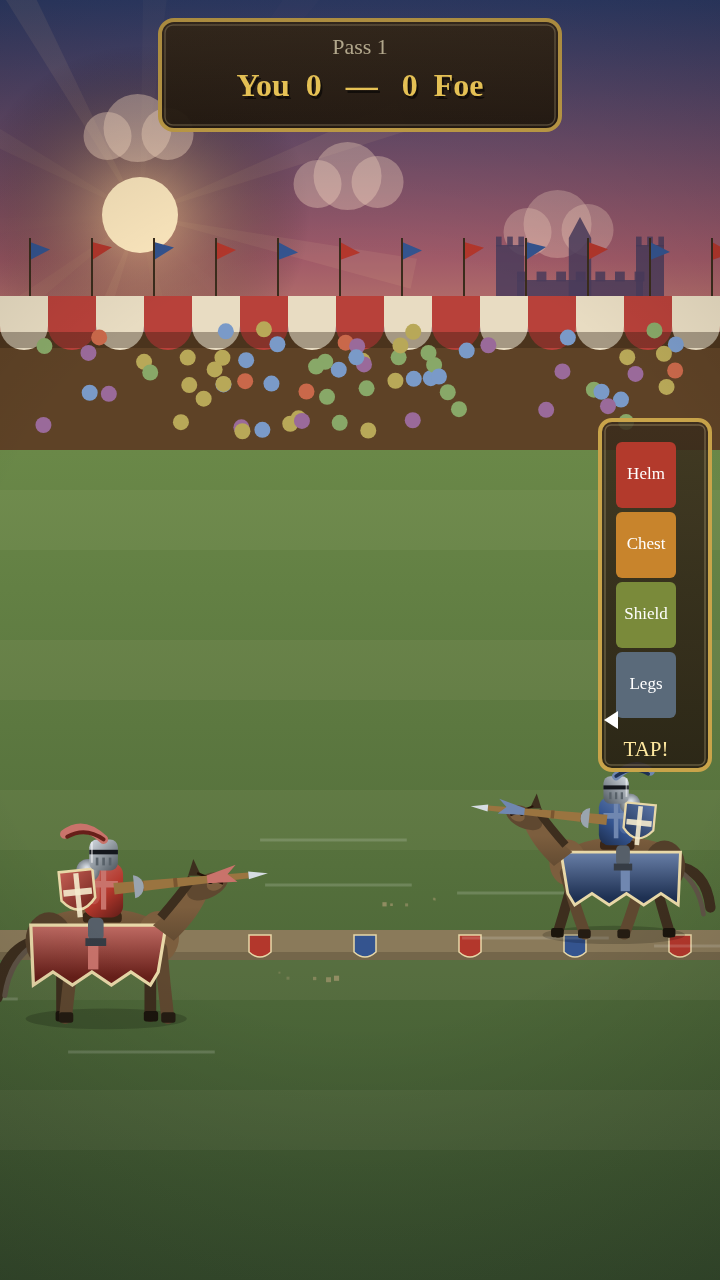
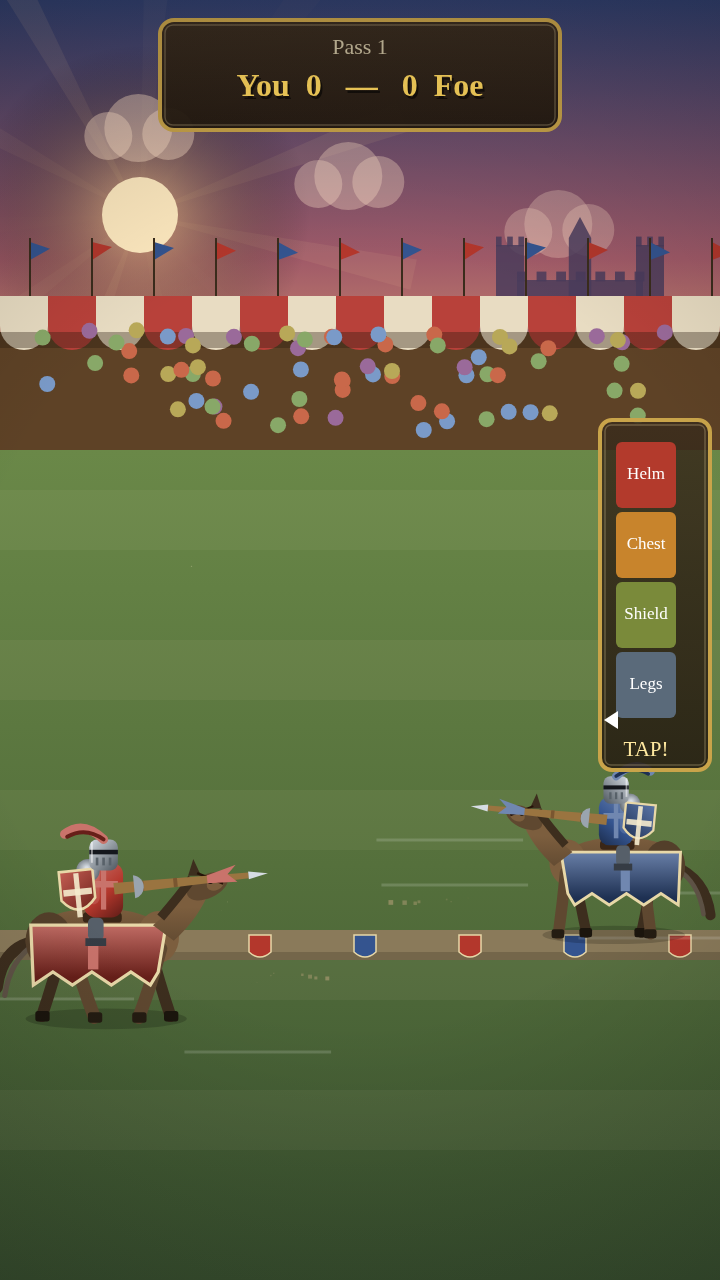
Add cinematic depth: raised-island map, parallax clouds, animated battle ranks
Push the 2.5D presentation toward a more three-dimensional, living feel:

Map:
- The island now casts a soft multi-sample drop shadow onto the sea, so
  the landmass reads as raised relief floating above the water
- Parallax cloud layer drifting above the realm, offset from the existing
  cloud shadows for depth
- Warm dust motes rising through the sunlight

Battle:
- War banners planted behind each host
- Idle-animated ranks: per-figure breathing bob and sway, with nearer
  rows scaled slightly larger for depth
- Continuous drifting battlefield dust/smoke for atmosphere

Verified: smoke suite green, headless-browser run clean (no runtime
errors), single-file bundle rebuilt (160 KB) and re-checked over file://.

https://claude.ai/code/session_01RVVfbX1GiqHoyx11mocZra

diff --git a/games/crown-of-albion/crown-of-albion.html b/games/crown-of-albion/crown-of-albion.html
@@ -822,7 +822,7 @@ function biomeColor(terrain, e, x, y) {
 const MapGen = {
   idx: null,            // Int8Array, HALFW*HALFH, territory id or -1 = sea
   area: [], cx: [], cy: [], adj: [],
-  halfCanvas: null, landCanvas: null, grainCanvas: null, foamCanvas: null,
+  halfCanvas: null, landCanvas: null, grainCanvas: null, foamCanvas: null, shadowCanvas: null,
 
   inIsland(x, y) {
     // wobble the sample point so the coast reads hand-drawn, not vectory
@@ -881,7 +881,28 @@ const MapGen = {
     this.landCanvas.height = MAPH;
     this.makeGrain();
     this.makeFoam();
+    this.makeShadow();
     this.repaint();
+  },
+
+  /* a soft dark silhouette of the island, cast onto the sea to make the
+     landmass read as raised relief floating above the water */
+  makeShadow() {
+    const half = document.createElement('canvas');
+    half.width = HALFW; half.height = HALFH;
+    const hc = half.getContext('2d');
+    const img = hc.createImageData(HALFW, HALFH);
+    const d = img.data;
+    for (let i = 0; i < this.idx.length; i++) {
+      if (this.idx[i] >= 0) { d[i * 4] = 6; d[i * 4 + 1] = 9; d[i * 4 + 2] = 16; d[i * 4 + 3] = 255; }
+    }
+    hc.putImageData(img, 0, 0);
+    this.shadowCanvas = document.createElement('canvas');
+    this.shadowCanvas.width = W; this.shadowCanvas.height = MAPH;
+    const sc = this.shadowCanvas.getContext('2d');
+    sc.imageSmoothingEnabled = true;
+    sc.globalAlpha = 0.34;
+    for (const [ox, oy] of [[0, 0], [3, 3], [-2, 2], [5, 5], [-4, 3]]) sc.drawImage(half, ox, oy, W, MAPH);
   },
 
   makeGrain() {
@@ -2280,6 +2301,13 @@ const MapScene = {
       if (sh.x > W + 40) sh.x = -40;
       if (sh.x < -40) sh.x = W + 40;
     }
+    // dust motes drifting up through the warm light
+    if (Math.random() < 0.12) {
+      spawn(rnd(60, 460), rnd(MAPY + 420, MAPY + 920), {
+        vx: rnd(-6, 7), vy: rnd(-16, -5), g: 0, life: rnd(2.2, 4.2),
+        size: rnd(1.4, 3), color: 'rgba(255,240,200,0.55)', shrink: true,
+      });
+    }
     if (this.aiQueue) {
       this.aiTimer -= dt;
       if (this.aiTimer <= 0) {
@@ -2371,7 +2399,11 @@ const MapScene = {
   /* ---- rendering ---- */
   render(dt) {
     this.drawSea();
+    // the island casts a soft shadow on the sea — it reads as raised relief
+    ctx.drawImage(MapGen.shadowCanvas, 16, MAPY + 20);
     ctx.drawImage(MapGen.landCanvas, 0, MAPY);
+    // a faint lit bevel along the north-west coast
+    ctx.globalAlpha = 0.5; ctx.drawImage(MapGen.foamCanvas, -2, MAPY - 3); ctx.globalAlpha = 1;
     // cinematic light: warm sun from the south-west, cool depth opposite
     glow(150, MAPY + 760, 620, 'rgba(255,228,150,0.16)', 0.9);
     ctx.fillStyle = 'rgba(40,30,70,0.10)';
@@ -2380,6 +2412,7 @@ const MapScene = {
     this.drawRoutes();
     this.drawBanners();
     this.drawBirds();
+    this.drawClouds();
     this.drawFrame();
     vignette(0.34);
     this.drawHUD();
@@ -2442,6 +2475,25 @@ const MapScene = {
       ctx.beginPath(); ctx.moveTo(0, 0); ctx.lineTo(0, -18); ctx.stroke();
       ctx.fillStyle = '#e8e0c8';
       ctx.beginPath(); ctx.moveTo(0, -18); ctx.lineTo(12, -6); ctx.lineTo(0, -4); ctx.closePath(); ctx.fill();
+      ctx.restore();
+    }
+  },
+
+  // soft clouds drifting above the realm, offset from their shadows for parallax
+  drawClouds() {
+    for (let i = 0; i < 3; i++) {
+      const x = ((gTime * (8 + i * 3) + i * 320) % (W + 560)) - 280 - 22;
+      const y = MAPY + 180 + i * 290 - 30;
+      ctx.save();
+      ctx.globalAlpha = 0.10;
+      ctx.fillStyle = '#f4f1ea';
+      ctx.beginPath();
+      ctx.ellipse(x, y, 190, 68, 0.2, 0, TAU);
+      ctx.ellipse(x + 120, y + 32, 120, 50, -0.2, 0, TAU);
+      ctx.ellipse(x - 92, y + 20, 90, 40, 0.1, 0, TAU);
+      ctx.fill();
+      ctx.globalAlpha = 0.06; ctx.fillStyle = '#ffffff';
+      ctx.beginPath(); ctx.ellipse(x - 20, y - 18, 150, 34, 0.15, 0, TAU); ctx.fill();
       ctx.restore();
     }
   },
@@ -2784,6 +2836,13 @@ const BattleScene = {
     this.timer = 0.6;
   },
   update(dt) {
+    // drifting battlefield dust/smoke for atmosphere
+    if (Math.random() < 0.5) {
+      spawn(rnd(40, W - 40), rnd(620, 1040), {
+        vx: rnd(-10, 10), vy: rnd(-22, -8), g: -4, life: rnd(1.6, 3.2),
+        size: rnd(3, 9), color: `rgba(150,135,110,${rnd(0.05, 0.14).toFixed(3)})`, shrink: false,
+      });
+    }
     if (this.phase !== 'fight') return;
     this.lunge = Math.max(0, this.lunge - dt * 4);
     this.timer -= dt;
@@ -2954,15 +3013,34 @@ const BattleScene = {
   drawHost(cx, dir, color, soldiers, knights) {
     const total = soldiers + knights;
     if (total <= 0) return;
+    // war banners planted behind the host
+    for (let b = 0; b < 2; b++) {
+      const bx = cx + dir * (b * 130 + 30), by = 702;
+      ctx.strokeStyle = '#3a2c1c'; ctx.lineWidth = 4;
+      ctx.beginPath(); ctx.moveTo(bx, by); ctx.lineTo(bx, by - 100); ctx.stroke();
+      const wv = Math.sin(gTime * 3 + b * 2) * 5;
+      ctx.fillStyle = color;
+      ctx.beginPath();
+      ctx.moveTo(bx, by - 100);
+      ctx.quadraticCurveTo(bx + dir * 26, by - 104 + wv, bx + dir * 48, by - 96 + wv);
+      ctx.lineTo(bx + dir * 48, by - 70 + wv * 0.5);
+      ctx.quadraticCurveTo(bx + dir * 26, by - 76 + wv, bx, by - 70);
+      ctx.closePath(); ctx.fill();
+      ctx.fillStyle = shade(color, 0.32); ctx.fillRect(bx + dir * 18, by - 94, 4, 18);
+    }
     const icons = Math.min(12, total);
     const kIcons = Math.round(icons * knights / total);
     let n = 0;
     for (let row = 0; row < 3 && n < icons; row++) {
       for (let col = 0; col < 4 && n < icons; col++, n++) {
-        const x = cx + dir * (col * 60) + (row % 2) * 24 * dir;
-        const y = 712 + row * 96;
-        if (n < kIcons) drawMiniKnight(x, y, 2.0, color, dir, this.lunge);
-        else drawSoldier(x, y, 2.2, color, dir, this.lunge);
+        const ph = n * 1.3;
+        const bob = Math.sin(gTime * 2.2 + ph) * 2.2;
+        const sway = Math.cos(gTime * 1.4 + ph) * 1.4 * dir;
+        const x = cx + dir * (col * 60) + (row % 2) * 24 * dir + sway;
+        const y = 712 + row * 96 + bob;
+        const sc = 1 + row * 0.07;          // nearer ranks loom slightly larger
+        if (n < kIcons) drawMiniKnight(x, y, 2.0 * sc, color, dir, this.lunge);
+        else drawSoldier(x, y, 2.2 * sc, color, dir, this.lunge);
       }
     }
   },

diff --git a/games/crown-of-albion/js/scenes.js b/games/crown-of-albion/js/scenes.js
@@ -956,6 +956,13 @@ const MapScene = {
       if (sh.x > W + 40) sh.x = -40;
       if (sh.x < -40) sh.x = W + 40;
     }
+    // dust motes drifting up through the warm light
+    if (Math.random() < 0.12) {
+      spawn(rnd(60, 460), rnd(MAPY + 420, MAPY + 920), {
+        vx: rnd(-6, 7), vy: rnd(-16, -5), g: 0, life: rnd(2.2, 4.2),
+        size: rnd(1.4, 3), color: 'rgba(255,240,200,0.55)', shrink: true,
+      });
+    }
     if (this.aiQueue) {
       this.aiTimer -= dt;
       if (this.aiTimer <= 0) {
@@ -1047,7 +1054,11 @@ const MapScene = {
   /* ---- rendering ---- */
   render(dt) {
     this.drawSea();
+    // the island casts a soft shadow on the sea — it reads as raised relief
+    ctx.drawImage(MapGen.shadowCanvas, 16, MAPY + 20);
     ctx.drawImage(MapGen.landCanvas, 0, MAPY);
+    // a faint lit bevel along the north-west coast
+    ctx.globalAlpha = 0.5; ctx.drawImage(MapGen.foamCanvas, -2, MAPY - 3); ctx.globalAlpha = 1;
     // cinematic light: warm sun from the south-west, cool depth opposite
     glow(150, MAPY + 760, 620, 'rgba(255,228,150,0.16)', 0.9);
     ctx.fillStyle = 'rgba(40,30,70,0.10)';
@@ -1056,6 +1067,7 @@ const MapScene = {
     this.drawRoutes();
     this.drawBanners();
     this.drawBirds();
+    this.drawClouds();
     this.drawFrame();
     vignette(0.34);
     this.drawHUD();
@@ -1118,6 +1130,25 @@ const MapScene = {
       ctx.beginPath(); ctx.moveTo(0, 0); ctx.lineTo(0, -18); ctx.stroke();
       ctx.fillStyle = '#e8e0c8';
       ctx.beginPath(); ctx.moveTo(0, -18); ctx.lineTo(12, -6); ctx.lineTo(0, -4); ctx.closePath(); ctx.fill();
+      ctx.restore();
+    }
+  },
+
+  // soft clouds drifting above the realm, offset from their shadows for parallax
+  drawClouds() {
+    for (let i = 0; i < 3; i++) {
+      const x = ((gTime * (8 + i * 3) + i * 320) % (W + 560)) - 280 - 22;
+      const y = MAPY + 180 + i * 290 - 30;
+      ctx.save();
+      ctx.globalAlpha = 0.10;
+      ctx.fillStyle = '#f4f1ea';
+      ctx.beginPath();
+      ctx.ellipse(x, y, 190, 68, 0.2, 0, TAU);
+      ctx.ellipse(x + 120, y + 32, 120, 50, -0.2, 0, TAU);
+      ctx.ellipse(x - 92, y + 20, 90, 40, 0.1, 0, TAU);
+      ctx.fill();
+      ctx.globalAlpha = 0.06; ctx.fillStyle = '#ffffff';
+      ctx.beginPath(); ctx.ellipse(x - 20, y - 18, 150, 34, 0.15, 0, TAU); ctx.fill();
       ctx.restore();
     }
   },
@@ -1460,6 +1491,13 @@ const BattleScene = {
     this.timer = 0.6;
   },
   update(dt) {
+    // drifting battlefield dust/smoke for atmosphere
+    if (Math.random() < 0.5) {
+      spawn(rnd(40, W - 40), rnd(620, 1040), {
+        vx: rnd(-10, 10), vy: rnd(-22, -8), g: -4, life: rnd(1.6, 3.2),
+        size: rnd(3, 9), color: `rgba(150,135,110,${rnd(0.05, 0.14).toFixed(3)})`, shrink: false,
+      });
+    }
     if (this.phase !== 'fight') return;
     this.lunge = Math.max(0, this.lunge - dt * 4);
     this.timer -= dt;
@@ -1630,15 +1668,34 @@ const BattleScene = {
   drawHost(cx, dir, color, soldiers, knights) {
     const total = soldiers + knights;
     if (total <= 0) return;
+    // war banners planted behind the host
+    for (let b = 0; b < 2; b++) {
+      const bx = cx + dir * (b * 130 + 30), by = 702;
+      ctx.strokeStyle = '#3a2c1c'; ctx.lineWidth = 4;
+      ctx.beginPath(); ctx.moveTo(bx, by); ctx.lineTo(bx, by - 100); ctx.stroke();
+      const wv = Math.sin(gTime * 3 + b * 2) * 5;
+      ctx.fillStyle = color;
+      ctx.beginPath();
+      ctx.moveTo(bx, by - 100);
+      ctx.quadraticCurveTo(bx + dir * 26, by - 104 + wv, bx + dir * 48, by - 96 + wv);
+      ctx.lineTo(bx + dir * 48, by - 70 + wv * 0.5);
+      ctx.quadraticCurveTo(bx + dir * 26, by - 76 + wv, bx, by - 70);
+      ctx.closePath(); ctx.fill();
+      ctx.fillStyle = shade(color, 0.32); ctx.fillRect(bx + dir * 18, by - 94, 4, 18);
+    }
     const icons = Math.min(12, total);
     const kIcons = Math.round(icons * knights / total);
     let n = 0;
     for (let row = 0; row < 3 && n < icons; row++) {
       for (let col = 0; col < 4 && n < icons; col++, n++) {
-        const x = cx + dir * (col * 60) + (row % 2) * 24 * dir;
-        const y = 712 + row * 96;
-        if (n < kIcons) drawMiniKnight(x, y, 2.0, color, dir, this.lunge);
-        else drawSoldier(x, y, 2.2, color, dir, this.lunge);
+        const ph = n * 1.3;
+        const bob = Math.sin(gTime * 2.2 + ph) * 2.2;
+        const sway = Math.cos(gTime * 1.4 + ph) * 1.4 * dir;
+        const x = cx + dir * (col * 60) + (row % 2) * 24 * dir + sway;
+        const y = 712 + row * 96 + bob;
+        const sc = 1 + row * 0.07;          // nearer ranks loom slightly larger
+        if (n < kIcons) drawMiniKnight(x, y, 2.0 * sc, color, dir, this.lunge);
+        else drawSoldier(x, y, 2.2 * sc, color, dir, this.lunge);
       }
     }
   },

diff --git a/games/crown-of-albion/js/world.js b/games/crown-of-albion/js/world.js
@@ -117,7 +117,7 @@ function biomeColor(terrain, e, x, y) {
 const MapGen = {
   idx: null,            // Int8Array, HALFW*HALFH, territory id or -1 = sea
   area: [], cx: [], cy: [], adj: [],
-  halfCanvas: null, landCanvas: null, grainCanvas: null, foamCanvas: null,
+  halfCanvas: null, landCanvas: null, grainCanvas: null, foamCanvas: null, shadowCanvas: null,
 
   inIsland(x, y) {
     // wobble the sample point so the coast reads hand-drawn, not vectory
@@ -176,7 +176,28 @@ const MapGen = {
     this.landCanvas.height = MAPH;
     this.makeGrain();
     this.makeFoam();
+    this.makeShadow();
     this.repaint();
+  },
+
+  /* a soft dark silhouette of the island, cast onto the sea to make the
+     landmass read as raised relief floating above the water */
+  makeShadow() {
+    const half = document.createElement('canvas');
+    half.width = HALFW; half.height = HALFH;
+    const hc = half.getContext('2d');
+    const img = hc.createImageData(HALFW, HALFH);
+    const d = img.data;
+    for (let i = 0; i < this.idx.length; i++) {
+      if (this.idx[i] >= 0) { d[i * 4] = 6; d[i * 4 + 1] = 9; d[i * 4 + 2] = 16; d[i * 4 + 3] = 255; }
+    }
+    hc.putImageData(img, 0, 0);
+    this.shadowCanvas = document.createElement('canvas');
+    this.shadowCanvas.width = W; this.shadowCanvas.height = MAPH;
+    const sc = this.shadowCanvas.getContext('2d');
+    sc.imageSmoothingEnabled = true;
+    sc.globalAlpha = 0.34;
+    for (const [ox, oy] of [[0, 0], [3, 3], [-2, 2], [5, 5], [-4, 3]]) sc.drawImage(half, ox, oy, W, MAPH);
   },
 
   makeGrain() {
